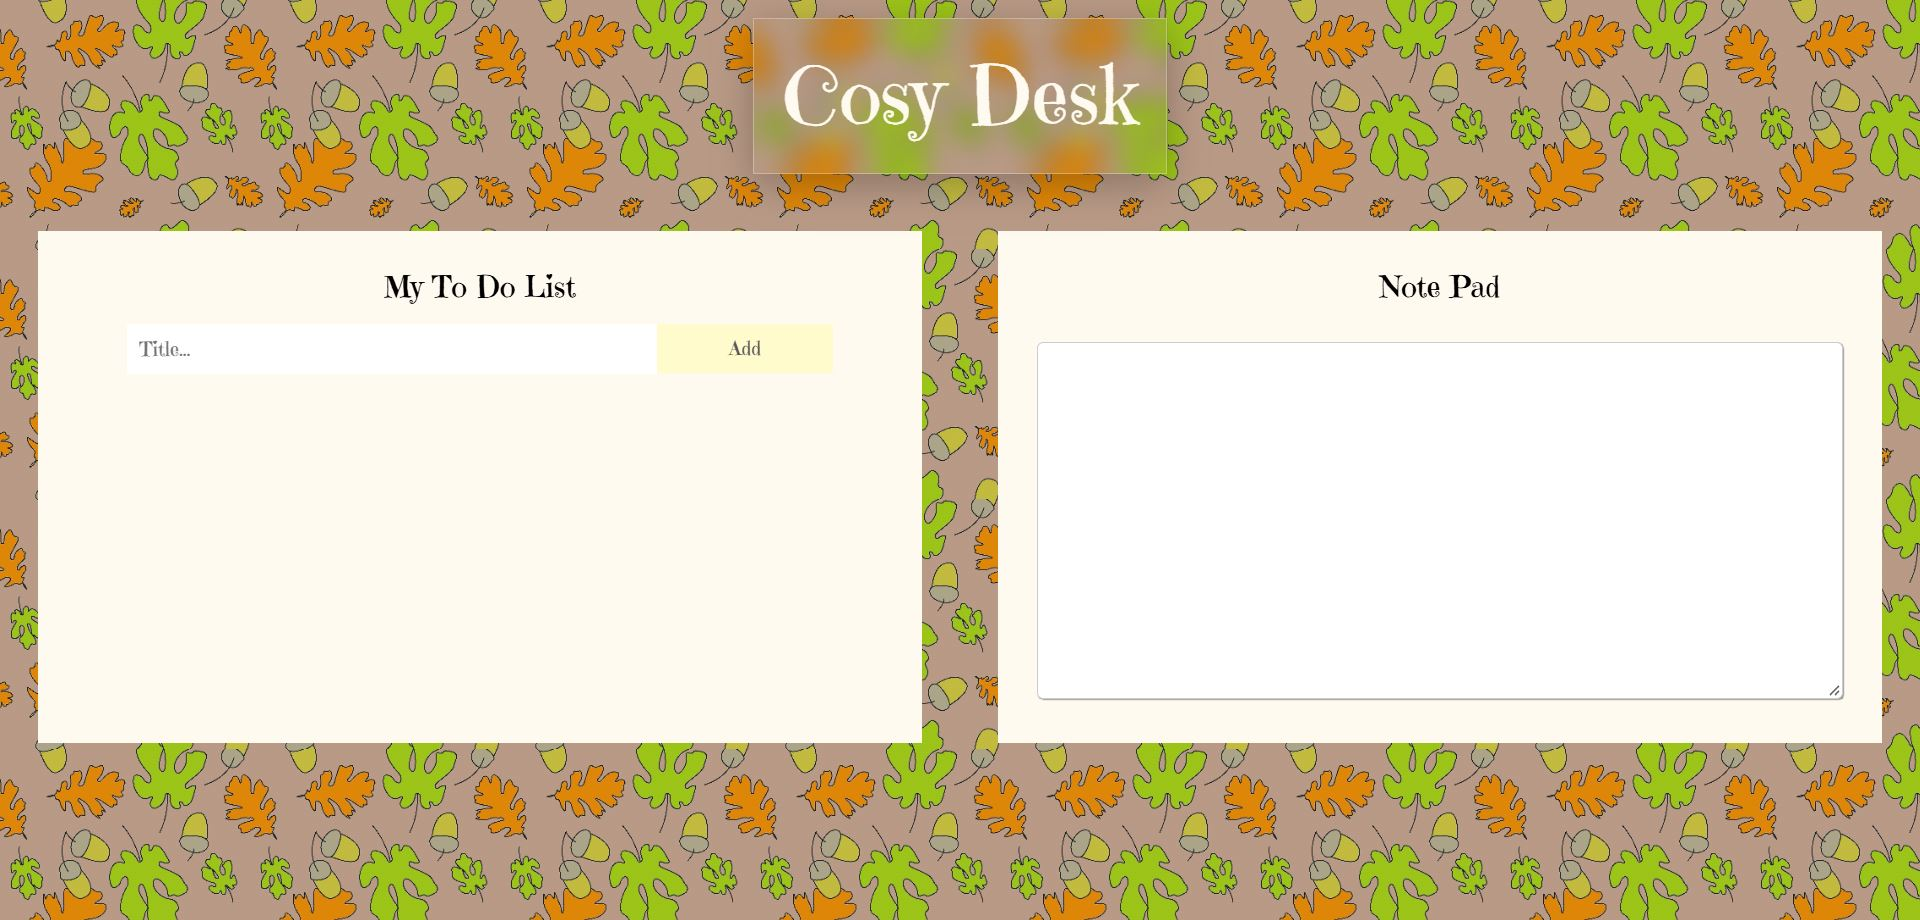
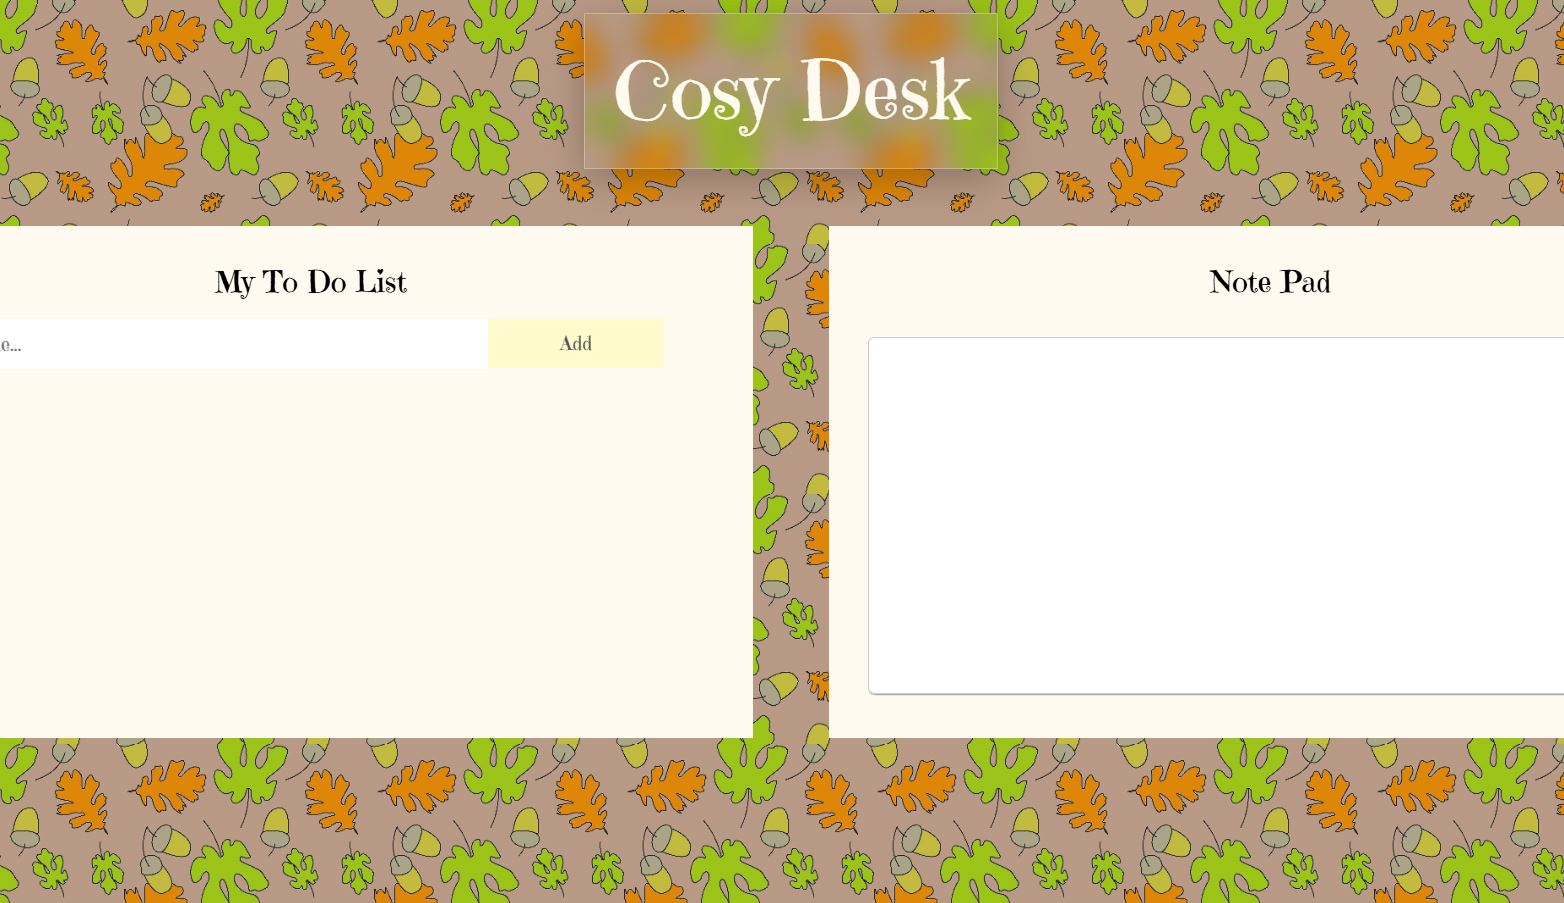
Outils Page
Added "Pomodoro" & "Musique Détente"

diff --git a/docs/outils.html b/docs/outils.html
@@ -47,6 +47,16 @@
 					</article>
 				</a>
 
+				<a href="https://pomodorotimer.online/">
+					<article class="references">
+						<img class="img-references" src="images/pomodoro.JPG">
+							<div>
+								<h3 class="titre-references">&#128336 Pomodoro Timer</h3>
+								<h3 class="lien-references"></h3>
+							</div>
+					</article>
+				</a>
+
 				<a href="https://transfonter.org/">
 					<article class="references">
 						<img class="img-references" src="images/transfonter.JPG">
@@ -72,6 +82,16 @@
 						<img class="img-references" src="images/cosy_desk.JPG">
 							<div>
 								<h3 class="titre-references">&#128221 Cosy Desk</h3>
+								<h3 class="lien-references"></h3>
+							</div>
+					</article>
+				</a>
+
+				<a href="https://www.youtube.com/watch?v=FrfJcgeYMN4&list=RDFrfJcgeYMN4&start_radio=1" target="_blank">
+					<article class="references">
+						<img class="img-references" src="images/zelda.JPG">
+							<div>
+								<h3 class="titre-references">&#128221 Musique détente</h3>
 								<h3 class="lien-references"></h3>
 							</div>
 					</article>
